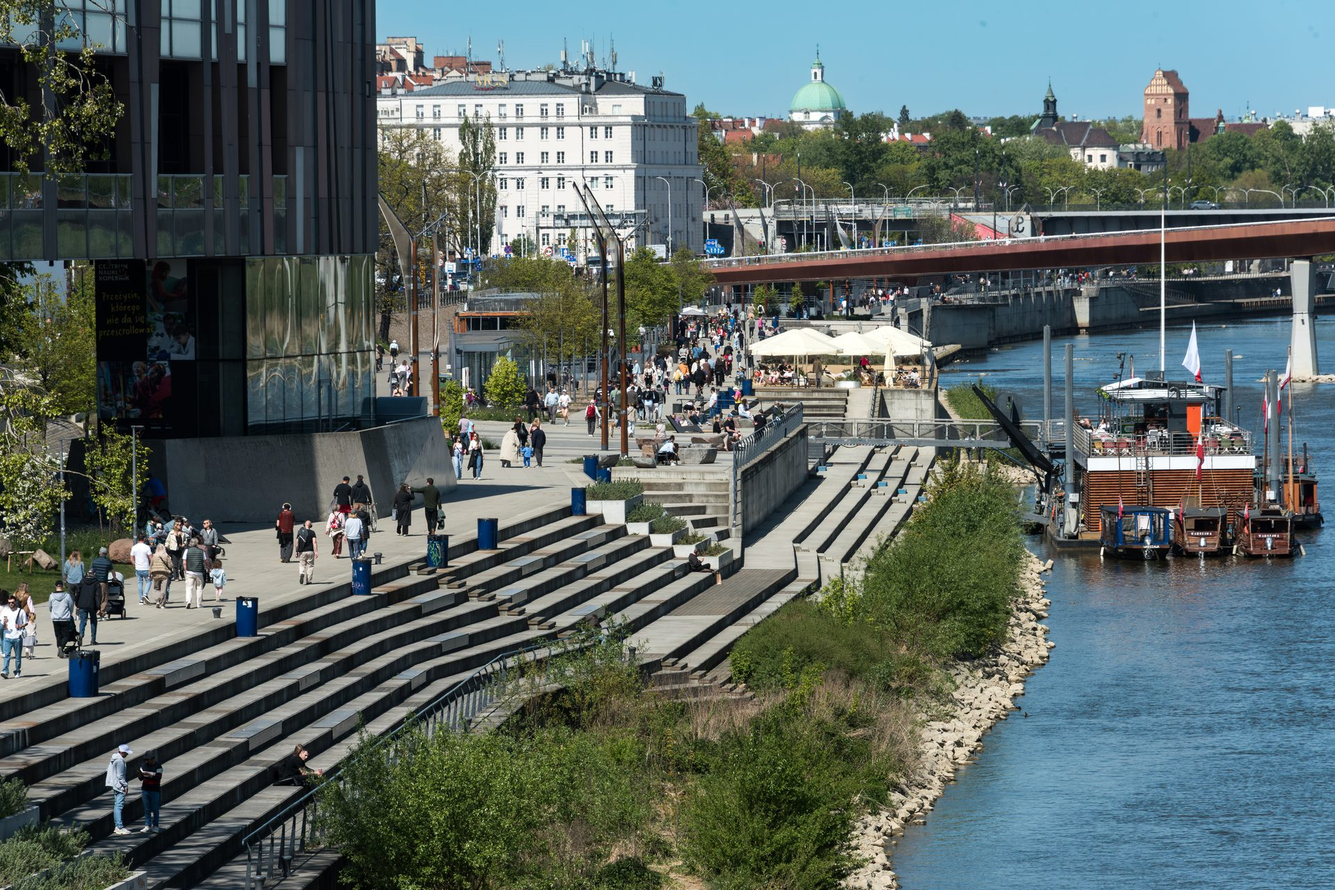
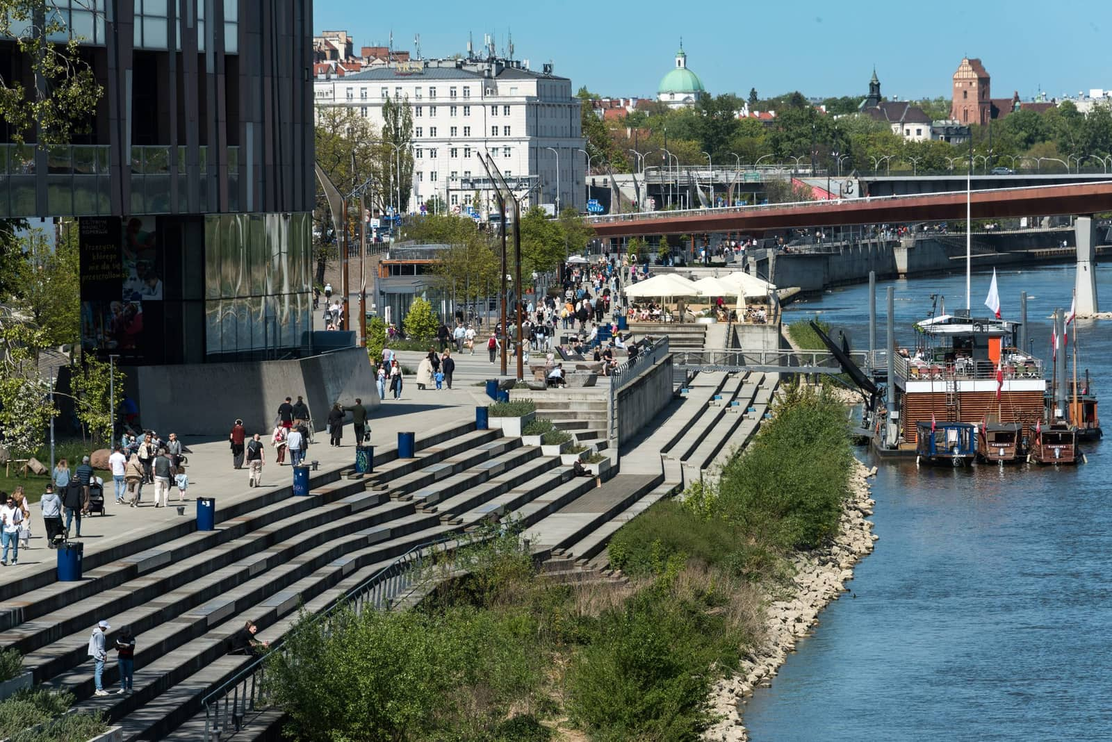
perf: recompress osiedle photos

Changed region(s): [[0.8125, 0.5253, 0.8438, 0.5871], [0.875, 0.5253, 0.9062, 0.5562]]

diff --git a/application/src/map/featured.ts b/application/src/map/featured.ts
@@ -52,7 +52,6 @@ type LooseFeatured = {
   tagline?: string
   center?: LngLat
   match?: Partial<Record<Profile, number>>
-  heroImages?: { src?: string }[]
   stats?: Record<string, number>
 }
 
@@ -74,7 +73,8 @@ export function buildFeatured(scoreMatch: (msiId: string) => Record<Profile, num
     const m = MOCK.find((x) => x?.slug === b.slug)
     const scored = scoreMatch(b.msiId) ?? { student: 60, rodzina: 60, senior: 60 }
     const match = { ...scored, ...(m?.match ?? {}) } as Record<Profile, number>
-    const thumb = m?.heroImages?.[0]?.src ?? `/osiedla/${b.slug}/01.jpg`
+    // 320×240 thumbnail cut from heroImages[0] (01.jpg) for the 64–72 px cards.
+    const thumb = `/osiedla/${b.slug}/thumb.jpg`
     return {
       ...b,
       name: m?.name ?? b.name,
